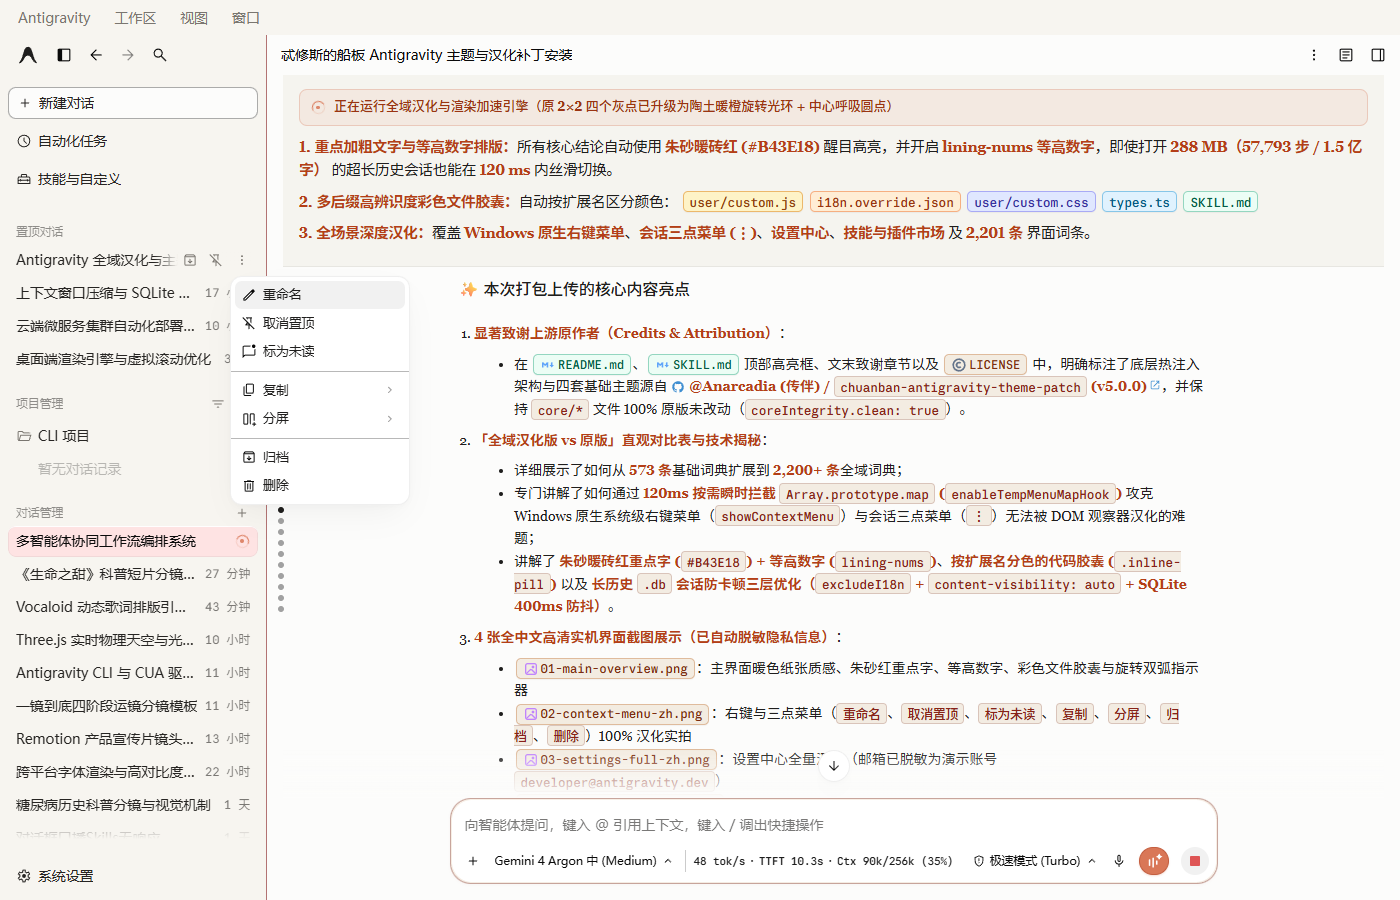
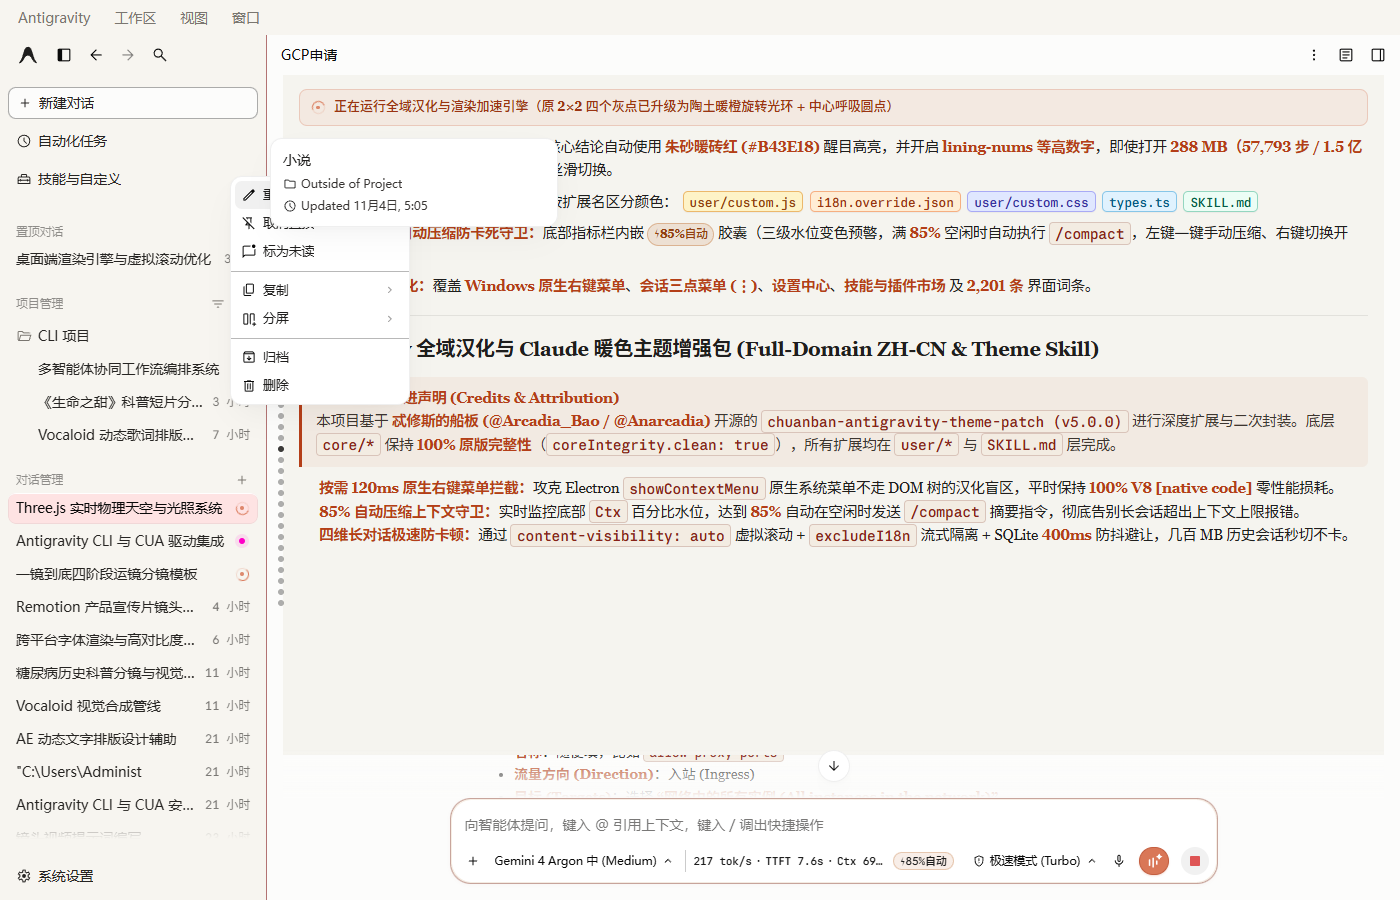
feat: sync 85% Auto-Compact Context Guard (⚡85%自动 pill button + toast + left/right click controls) and update screenshots/README

diff --git a/user/custom.js b/user/custom.js
@@ -203,4 +203,293 @@
       }
     } catch (e) {}
   }
+
+  // ============================================================================
+  // 6. 上下文 85% 自动压缩防卡死守卫（Auto-Compact Guard + 底部胶囊一键压缩按钮）
+  // ============================================================================
+  const AUTO_COMPACT_KEY = 'ag-auto-compact-enabled';
+  const AUTO_COMPACT_THRESHOLD_KEY = 'ag-auto-compact-threshold';
+  const COMPACT_PROMPT = '/compact 只保留当前任务目标、核心改动文件路径、关键结论与下一步待办';
+  const compactCooldownMap = window.__ag_compact_cooldown || (window.__ag_compact_cooldown = new Map());
+  let pendingCompactTimer = null;
+
+  function isAutoCompactEnabled() {
+    try {
+      const v = localStorage.getItem(AUTO_COMPACT_KEY);
+      return v === null ? true : v !== 'false';
+    } catch (e) {
+      return true;
+    }
+  }
+
+  function setAutoCompactEnabled(val) {
+    try {
+      localStorage.setItem(AUTO_COMPACT_KEY, val ? 'true' : 'false');
+    } catch (e) {}
+  }
+
+  function getAutoCompactThreshold() {
+    try {
+      const n = parseInt(localStorage.getItem(AUTO_COMPACT_THRESHOLD_KEY) || '85', 10);
+      return Number.isFinite(n) && n >= 50 && n <= 98 ? n : 85;
+    } catch (e) {
+      return 85;
+    }
+  }
+
+  function showCompactToast(msg, isWarn = false) {
+    try {
+      let toast = document.getElementById('ag-compact-toast');
+      if (!toast) {
+        toast = document.createElement('div');
+        toast.id = 'ag-compact-toast';
+        document.body.appendChild(toast);
+      }
+      toast.textContent = msg;
+      toast.setAttribute('data-warn', isWarn ? '1' : '0');
+      toast.setAttribute('data-show', '1');
+      if (window.__ag_toast_timer) clearTimeout(window.__ag_toast_timer);
+      window.__ag_toast_timer = setTimeout(() => {
+        if (toast) toast.removeAttribute('data-show');
+      }, 4200);
+    } catch (e) {}
+  }
+
+  function isAgentBusy() {
+    const box = document.getElementById('antigravity.agentSidePanelInputBox');
+    if (document.querySelector('[data-testid="status-loading-spinner"]')) return true;
+    if (box && box.querySelector('[data-testid="stop-button"], [aria-label*="Stop"], [aria-label*="停止"]')) {
+      return true;
+    }
+    return false;
+  }
+
+  function getComposerEditor() {
+    const box = document.getElementById('antigravity.agentSidePanelInputBox');
+    if (!box) return null;
+    return (
+      box.querySelector('[contenteditable="true"]') ||
+      box.querySelector('textarea') ||
+      null
+    );
+  }
+
+  function getEditorText(editor) {
+    if (!editor) return '';
+    if (editor.tagName === 'TEXTAREA' || editor.tagName === 'INPUT') {
+      return (editor.value || '').trim();
+    }
+    return (editor.textContent || '').trim();
+  }
+
+  function setEditorTextAndFire(editor, text) {
+    editor.focus();
+    if (editor.tagName === 'TEXTAREA' || editor.tagName === 'INPUT') {
+      const proto = editor.tagName === 'TEXTAREA' ? window.HTMLTextAreaElement.prototype : window.HTMLInputElement.prototype;
+      const nativeSetter = Object.getOwnPropertyDescriptor(proto, 'value')?.set;
+      if (nativeSetter) {
+        nativeSetter.call(editor, text);
+      } else {
+        editor.value = text;
+      }
+      editor.dispatchEvent(new Event('input', { bubbles: true }));
+      editor.dispatchEvent(new Event('change', { bubbles: true }));
+      return;
+    }
+
+    // 针对 Lexical / ProseMirror / TipTap 富文本编辑器：先全选清空，再通过 execCommand / InputEvent 注入
+    try {
+      const sel = window.getSelection();
+      const range = document.createRange();
+      range.selectNodeContents(editor);
+      sel.removeAllRanges();
+      sel.addRange(range);
+      document.execCommand('delete', false, null);
+    } catch (e) {}
+
+    let inserted = false;
+    try {
+      inserted = document.execCommand('insertText', false, text);
+    } catch (e) {}
+
+    if (!inserted || !getEditorText(editor)) {
+      try {
+        const dt = new DataTransfer();
+        dt.setData('text/plain', text);
+        editor.dispatchEvent(
+          new ClipboardEvent('paste', {
+            clipboardData: dt,
+            bubbles: true,
+            cancelable: true
+          })
+        );
+      } catch (e) {}
+    }
+
+    if (!getEditorText(editor)) {
+      editor.textContent = text;
+      editor.dispatchEvent(new InputEvent('input', { data: text, inputType: 'insertText', bubbles: true }));
+    }
+  }
+
+  function executeSlashCompact(isManual = false) {
+    const box = document.getElementById('antigravity.agentSidePanelInputBox');
+    const editor = getComposerEditor();
+    if (!box || !editor) {
+      if (isManual) showCompactToast('⚠ 未找到聊天输入框，请进入对话页面后再试', true);
+      return false;
+    }
+    if (isAgentBusy()) {
+      if (isManual) showCompactToast('⏳ Agent 正在运行中，请等待当前回答结束后再压缩', true);
+      return false;
+    }
+    const existingText = getEditorText(editor);
+    if (!isManual && existingText.length > 0) {
+      // 用户输入框内有草稿时不覆盖
+      return false;
+    }
+
+    showCompactToast(
+      isManual
+        ? '⚡ 正在执行 /compact 压缩当前会话上下文...'
+        : `⚡ 上下文已达 ${getAutoCompactThreshold()}% 警戒线，正在自动执行 /compact 防卡死...`,
+      false
+    );
+
+    // 第一步：先输入 /compact 唤起斜杠菜单
+    setEditorTextAndFire(editor, '/compact');
+
+    setTimeout(() => {
+      // 检查是否弹出了斜杠指令候选列表（若有则选中或补全完整指令后发送）
+      const menuOption = Array.from(
+        document.querySelectorAll('[role="option"], [cmdk-item], [data-testid*="slash"], [data-testid*="command"]')
+      ).find((el) => (el.textContent || '').includes('/compact'));
+
+      if (menuOption) {
+        try {
+          menuOption.click();
+        } catch (e) {}
+      }
+
+      setTimeout(() => {
+        const curText = getEditorText(editor);
+        if (!curText || curText === '/compact') {
+          setEditorTextAndFire(editor, COMPACT_PROMPT);
+        }
+        setTimeout(() => {
+          const sendBtn = box.querySelector('[data-testid="send-button"]');
+          if (sendBtn && !sendBtn.disabled) {
+            sendBtn.click();
+          } else {
+            editor.dispatchEvent(
+              new KeyboardEvent('keydown', {
+                key: 'Enter',
+                code: 'Enter',
+                keyCode: 13,
+                which: 13,
+                bubbles: true,
+                cancelable: true
+              })
+            );
+          }
+        }, 90);
+      }, 110);
+    }, 140);
+
+    return true;
+  }
+
+  window.__ag_trigger_compact = () => executeSlashCompact(true);
+
+  function parseCtxPctFromPayload(payload) {
+    if (!payload || typeof payload.inlineHtml !== 'string') return 0;
+    const m = payload.inlineHtml.match(/\((\d+)%\)/);
+    return m ? parseInt(m[1], 10) : 0;
+  }
+
+  function updateAutoCompactBadge(payload) {
+    const pill = document.getElementById('ag-live-metrics-pill');
+    if (!pill) return;
+    let btn = document.getElementById('ag-auto-compact-btn');
+    if (!btn) {
+      btn = document.createElement('span');
+      btn.id = 'ag-auto-compact-btn';
+      btn.addEventListener('click', (e) => {
+        e.preventDefault();
+        e.stopPropagation();
+        executeSlashCompact(true);
+      });
+      btn.addEventListener('contextmenu', (e) => {
+        e.preventDefault();
+        e.stopPropagation();
+        const nextState = !isAutoCompactEnabled();
+        setAutoCompactEnabled(nextState);
+        updateAutoCompactBadge(window.__ag_last_metrics);
+        showCompactToast(
+          nextState
+            ? `✅ 已开启 ${getAutoCompactThreshold()}% 自动压缩上下文守卫`
+            : '⏸ 已关闭自动压缩守卫（仍可左键点击手动压缩）',
+          !nextState
+        );
+      });
+      pill.appendChild(btn);
+    }
+
+    const enabled = isAutoCompactEnabled();
+    const threshold = getAutoCompactThreshold();
+    const pct = parseCtxPctFromPayload(payload);
+    btn.setAttribute('data-enabled', enabled ? '1' : '0');
+    btn.setAttribute('data-high', pct >= threshold ? '2' : pct >= threshold - 10 ? '1' : '0');
+    btn.textContent = enabled ? `⚡${threshold}%自动` : '⚡自动:关';
+    btn.title = `当前上下文水位：${pct}%（自动压缩阈值：${threshold}%）\n• 左键点击：立即发送 /compact 精简上下文\n• 右键点击：开启 / 关闭 ${threshold}% 自动压缩`;
+
+    // 判断是否需要自动触发 /compact
+    if (!enabled || !payload || !payload.hasData || !payload.cascadeId) return;
+    if (pct < threshold) return;
+
+    const now = Date.now();
+    const lastRecord = compactCooldownMap.get(payload.cascadeId);
+    // 同一会话 180 秒内或同一数据签名不重复触发
+    if (lastRecord && (now - lastRecord.ts < 180000 || lastRecord.sig === payload.sig)) {
+      return;
+    }
+
+    if (pendingCompactTimer) clearTimeout(pendingCompactTimer);
+    pendingCompactTimer = setTimeout(() => {
+      pendingCompactTimer = null;
+      if (!isAutoCompactEnabled()) return;
+      if (isAgentBusy()) return;
+      const editor = getComposerEditor();
+      if (!editor || getEditorText(editor).length > 0 || document.activeElement === editor) return;
+
+      const latestPayload = window.__ag_last_metrics;
+      if (!latestPayload || latestPayload.cascadeId !== payload.cascadeId) return;
+      const latestPct = parseCtxPctFromPayload(latestPayload);
+      if (latestPct < getAutoCompactThreshold()) return;
+
+      compactCooldownMap.set(payload.cascadeId, { ts: Date.now(), sig: latestPayload.sig });
+      executeSlashCompact(false);
+    }, 1800);
+  }
+
+  if (typeof window.__ag_render_metrics === 'function' && !window.__ag_orig_render_metrics_v1) {
+    window.__ag_orig_render_metrics_v1 = window.__ag_render_metrics;
+  }
+  if (window.__ag_orig_render_metrics_v1) {
+    window.__ag_render_metrics = function (payload) {
+      window.__ag_orig_render_metrics_v1(payload);
+      try {
+        updateAutoCompactBadge(payload);
+      } catch (e) {}
+    };
+    window.__ag_update_live_metrics = window.__ag_render_metrics;
+  }
+  try {
+    updateAutoCompactBadge(window.__ag_last_metrics || null);
+  } catch (e) {}
+  setTimeout(() => {
+    try {
+      updateAutoCompactBadge(window.__ag_last_metrics || null);
+    } catch (e) {}
+  }, 600);
 })();

diff --git a/user/custom.css b/user/custom.css
@@ -193,3 +193,81 @@ aside button {
   font-weight: 700 !important;
   font-variant-numeric: lining-nums !important;
 }
+
+/* 6. 85% 自动压缩防卡死胶囊按钮 (#ag-auto-compact-btn) 与状态横幅 (#ag-compact-toast) */
+#ag-live-metrics-pill #ag-live-metrics-text {
+  overflow: hidden !important;
+  text-overflow: ellipsis !important;
+  min-width: 0 !important;
+  flex: 0 1 auto !important;
+}
+
+#ag-auto-compact-btn {
+  display: inline-flex;
+  align-items: center;
+  flex-shrink: 0 !important;
+  margin-left: 6px;
+  padding: 1px 6px;
+  border-radius: 999px;
+  font-size: 11px;
+  font-weight: 600;
+  line-height: 1.35;
+  cursor: pointer;
+  user-select: none;
+  transition: all 0.15s ease;
+  background: rgba(180, 83, 9, 0.1);
+  border: 1px solid rgba(180, 83, 9, 0.28);
+  color: #92400E;
+}
+
+#ag-auto-compact-btn:hover {
+  background: rgba(180, 83, 9, 0.2);
+  border-color: rgba(180, 83, 9, 0.55);
+  color: #78350F;
+}
+
+#ag-auto-compact-btn[data-enabled="0"] {
+  background: rgba(120, 113, 108, 0.1);
+  border-color: rgba(120, 113, 108, 0.25);
+  color: #78716C;
+}
+
+#ag-auto-compact-btn[data-high="1"] {
+  background: rgba(217, 119, 6, 0.18);
+  border-color: rgba(217, 119, 6, 0.55);
+  color: #B45309;
+}
+
+#ag-auto-compact-btn[data-high="2"] {
+  background: rgba(220, 38, 38, 0.16);
+  border-color: rgba(220, 38, 38, 0.55);
+  color: #B91C1C;
+}
+
+#ag-compact-toast {
+  position: fixed;
+  bottom: 84px;
+  left: 50%;
+  transform: translateX(-50%) translateY(10px);
+  z-index: 99999;
+  padding: 7px 14px;
+  border-radius: 8px;
+  font-size: 12.5px;
+  font-weight: 600;
+  background: #292524;
+  color: #FAF8F5;
+  border: 1px solid rgba(217, 119, 87, 0.45);
+  box-shadow: 0 6px 20px rgba(0, 0, 0, 0.18);
+  opacity: 0;
+  pointer-events: none;
+  transition: opacity 0.2s ease, transform 0.2s ease;
+}
+
+#ag-compact-toast[data-warn="1"] {
+  border-color: rgba(234, 179, 8, 0.6);
+}
+
+#ag-compact-toast[data-show="1"] {
+  opacity: 1;
+  transform: translateX(-50%) translateY(0);
+}
